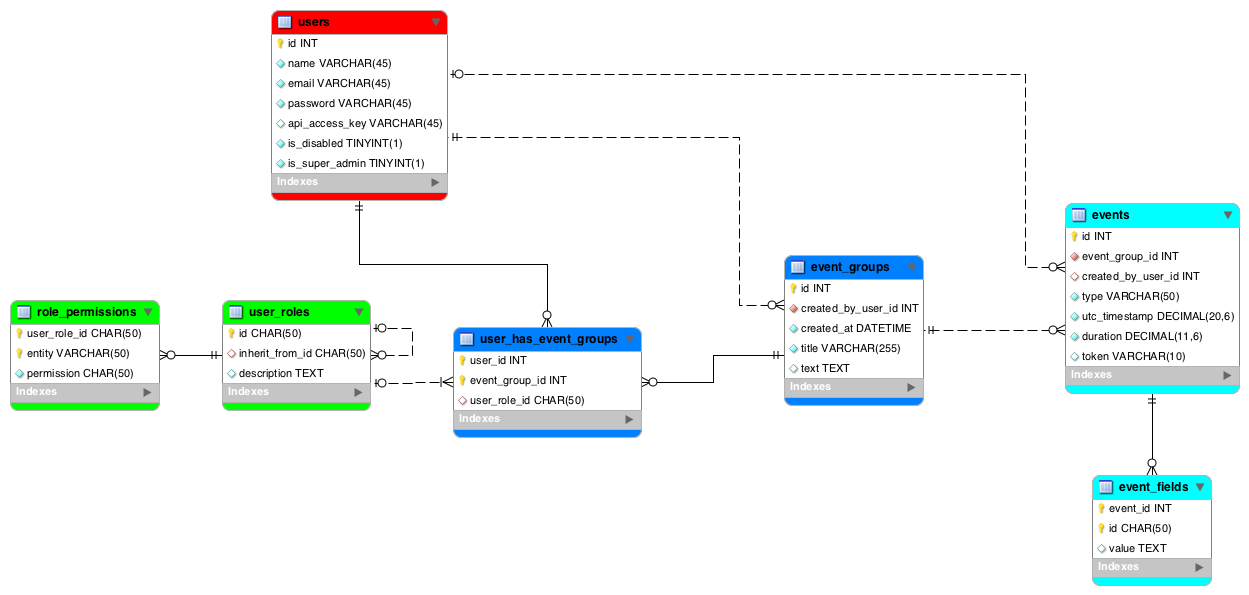
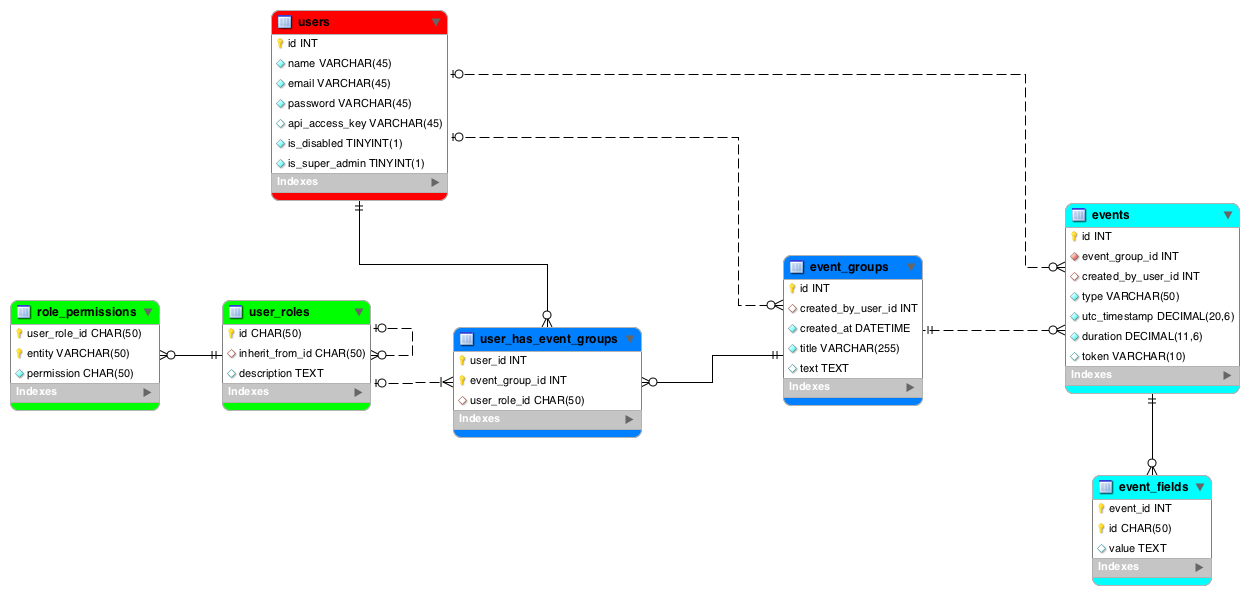
updated db schema #93

Changed region(s): [[0.6245, 0.4235, 0.7494, 0.6655]]

diff --git a/db/migrations/018_allow_event_groups_created_by_user_id_to_be_null.rb b/db/migrations/018_allow_event_groups_created_by_user_id_to_be_null.rb
@@ -1,0 +1,13 @@
+Sequel.migration do
+  up do
+    drop_foreign_key([:created_by_user_id])
+    add_foreign_key([:created_by_user_id], :users, :key => :id, 
+      :on_delete => :set_null, :on_update => :cascade)
+  end
+
+  down do
+    drop_foreign_key([:created_by_user_id])
+    add_foreign_key([:created_by_user_id], :users, :key => :id, 
+      :on_delete => :restrict, :on_update => :cascade)
+  end
+end
